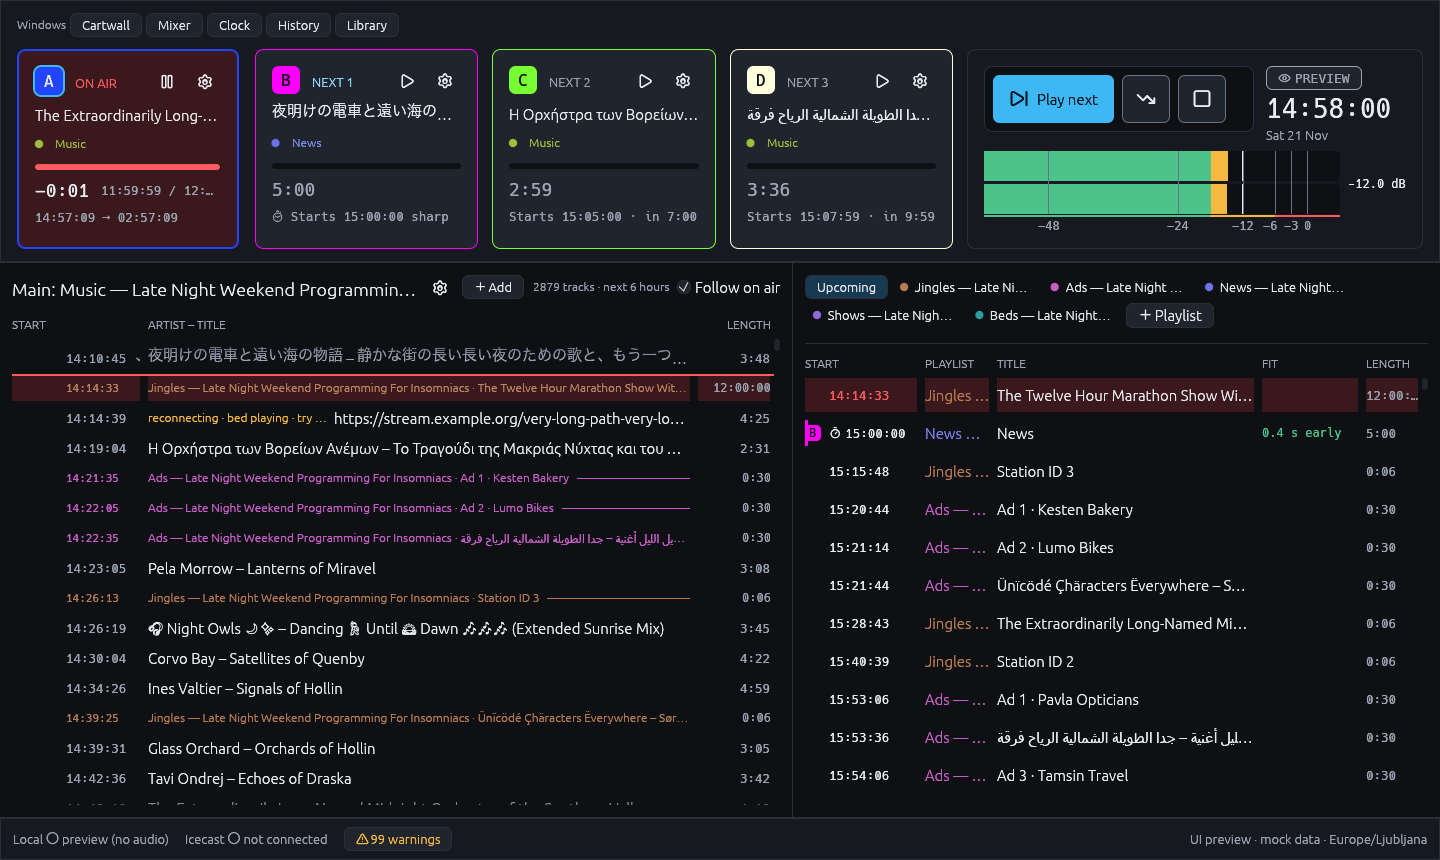
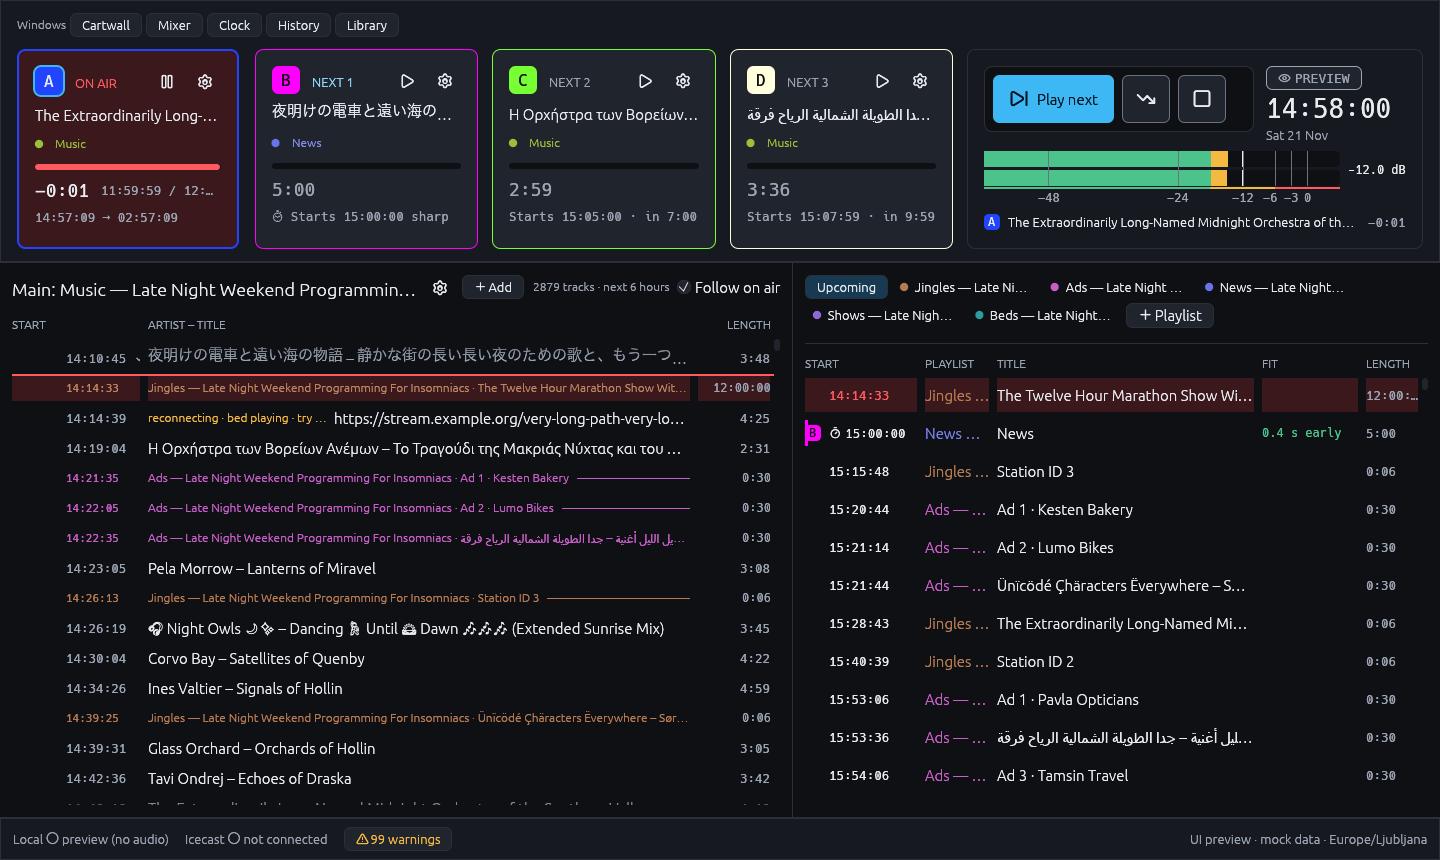
Header shows what is on air under the Out meter
A line under the Out meter's dB scale, across the meter's width, shows the
deck that listeners hear now: its letter badge in the deck colour, the
"Artist – Title" of its item (ellipsised, with the full text in a
tooltip) and the time left at the right end. During a crossfade it shows
the deck that plays, not the one fading out. With nothing playing it says
"Nothing playing" in muted text and never keeps a stale item. It fits the
narrow 1024 px header too.

Changed region(s): [[0.6562, 0.1814, 0.9375, 0.2721], [0.9375, 0.1814, 0.9688, 0.2116]]

diff --git a/crates/ui-egui/src/decks.rs b/crates/ui-egui/src/decks.rs
@@ -687,8 +687,10 @@ fn cluster(
                         .strong(),
                 );
             });
-            let rest = (inner_h - (ui.cursor().top() - y0)).max(size::VU_NARROW_H);
+            let rest = (inner_h - (ui.cursor().top() - y0) - size::NOW_LINE - space::XS)
+                .max(size::VU_NARROW_H);
             out_meter(ui, view, rest, false, actions, t);
+            now_playing(ui, view, t);
             return;
         }
         ui.spacing_mut().item_spacing = egui::vec2(space::M, space::S);
@@ -728,9 +730,74 @@ fn cluster(
                 },
             );
         });
-        let rest = (inner_h - top.response.rect.height() - space::S).max(size::VU_NARROW_H);
+        let rest = (inner_h - top.response.rect.height() - size::NOW_LINE - 2.0 * space::S)
+            .max(size::VU_NARROW_H);
         out_meter(ui, view, rest, true, actions, t);
+        now_playing(ui, view, t);
     });
+}
+
+/// The deck that listeners hear now: the deck that plays, else the deck that fades out.
+/// A paused deck is silent, so it does not count.
+fn audible_deck(decks: &[DeckView]) -> Option<usize> {
+    decks
+        .iter()
+        .position(|d| d.state == DeckState::Playing)
+        .or_else(|| decks.iter().position(|d| d.state == DeckState::Fading))
+}
+
+/// The line under the Out meter: the badge of the deck on air, its "Artist – Title" and the
+/// time left at the right end. With nothing on air it says so, and never shows a stale item.
+fn now_playing(ui: &mut egui::Ui, view: &StationView, t: &Tokens) {
+    let w = ui.available_width();
+    ui.allocate_ui_with_layout(
+        egui::vec2(w, size::NOW_LINE),
+        Layout::left_to_right(Align::Center),
+        |ui| {
+            ui.set_width(w);
+            ui.spacing_mut().item_spacing.x = space::S;
+            let small = |s: String| RichText::new(s).font(theme::text(theme::LABEL));
+            let Some((i, deck)) =
+                audible_deck(&view.decks).and_then(|i| Some((i, view.decks.get(i)?)))
+            else {
+                ui.label(small("Nothing playing".to_owned()).color(t.text_muted));
+                return;
+            };
+            // The badge: the deck colour with the letter on it, as on the deck card.
+            let (rect, badge) =
+                ui.allocate_exact_size(egui::Vec2::splat(size::DECK_MARK), Sense::hover());
+            let p = ui.painter();
+            p.rect_filled(rect, t.radius_sm, Tokens::deck(i));
+            p.text(
+                rect.center(),
+                egui::Align2::CENTER_CENTER,
+                deck.label,
+                theme::mono(theme::CAPTION),
+                t.deck_ink(i),
+            );
+            badge.widget_info(|| {
+                egui::WidgetInfo::labeled(
+                    egui::WidgetType::Label,
+                    true,
+                    format!("Deck {} on air", deck.label),
+                )
+            });
+            let left = deck.len.saturating_sub(deck.elapsed);
+            ui.with_layout(Layout::right_to_left(Align::Center), |ui| {
+                let time = RichText::new(format!("−{}", mmss(left))).font(theme::mono(theme::CODE));
+                ui.label(time.color(t.text_muted))
+                    .on_hover_text("Time left on the item on air");
+                ui.with_layout(Layout::left_to_right(Align::Center), |ui| {
+                    let title = if deck.title.is_empty() {
+                        "—"
+                    } else {
+                        deck.title.as_str()
+                    };
+                    widgets::truncated_label(ui, small(title.to_owned())).on_hover_text(title);
+                });
+            });
+        },
+    );
 }
 
 /// The transport of the station: Play next, Fade out and Stop after current, at one height.

diff --git a/crates/ui-egui/tests/it/smoke.rs b/crates/ui-egui/tests/it/smoke.rs
@@ -476,3 +476,18 @@ fn play_next_is_a_large_button_in_the_header_with_its_siblings_at_the_same_heigh
     }
     assert!(play.top() < 100.0, "Play next is in the header strip");
 }
+
+/// The line under the Out meter names the deck on air and its item, with the time left.
+#[test]
+fn the_header_names_what_is_on_air() {
+    let harness = harness();
+    assert!(
+        shows(&harness, "Deck A on air"),
+        "the badge of the deck on air"
+    );
+    let line = harness
+        .query_all_by_label("Halvard Pine – Harbours of Kelmora")
+        .any(|n| n.rect().bottom() < 250.0 && n.rect().left() > 800.0);
+    assert!(line, "the item on air shows in the header cluster");
+    assert!(!shows(&harness, "Nothing playing"), "something is on air");
+}

diff --git a/crates/ui-egui/src/theme.rs b/crates/ui-egui/src/theme.rs
@@ -137,6 +137,8 @@ pub mod size {
     pub const CLOCK_COL_W: f32 = 140.0;
     /// The Out meter in the header: the height of the meter in a narrow cluster.
     pub const VU_NARROW_H: f32 = 20.0;
+    /// The now-playing line under the Out meter.
+    pub const NOW_LINE: f32 = 20.0;
     /// The two channel bars of the Out meter in the cluster, together.
     pub const VU_BARS_H: f32 = 36.0;
     /// The gap between the two channel bars of a meter.
